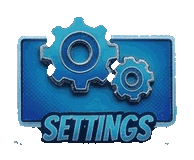
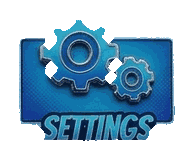
Further trim button edge fringing

diff --git a/app/main.py b/app/main.py
@@ -24,7 +24,7 @@ logger = logging.getLogger("kaching")
 app = FastAPI(title="Ka-Ching!")
 templates = Jinja2Templates(directory=os.path.join(APP_DIR, "templates"))
 
-APP_VERSION = "2026.07.09.8"
+APP_VERSION = "2026.07.09.9"
 templates.env.globals["app_version"] = APP_VERSION
 app.mount("/static", StaticFiles(directory=os.path.join(APP_DIR, "static")), name="static")
 
